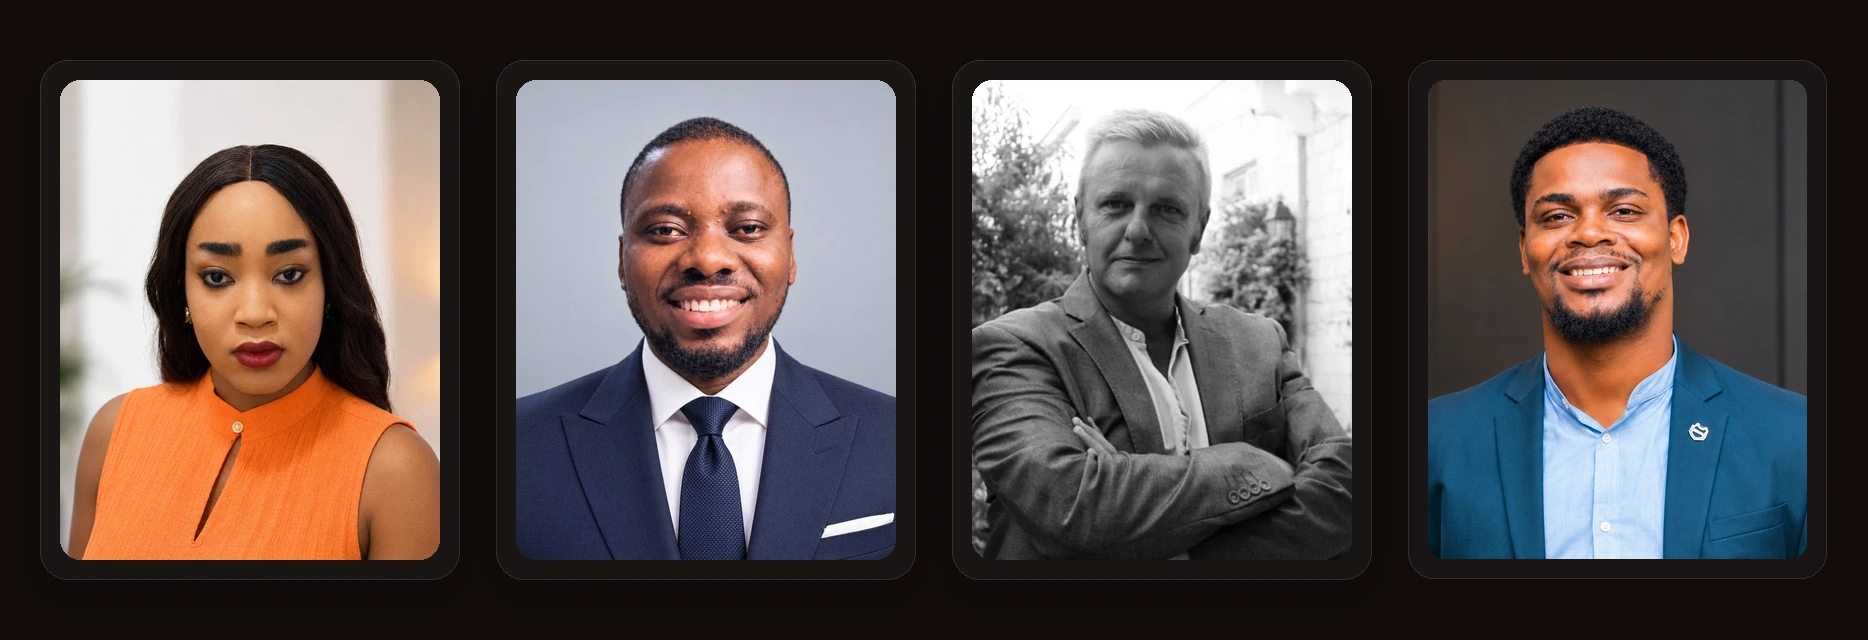
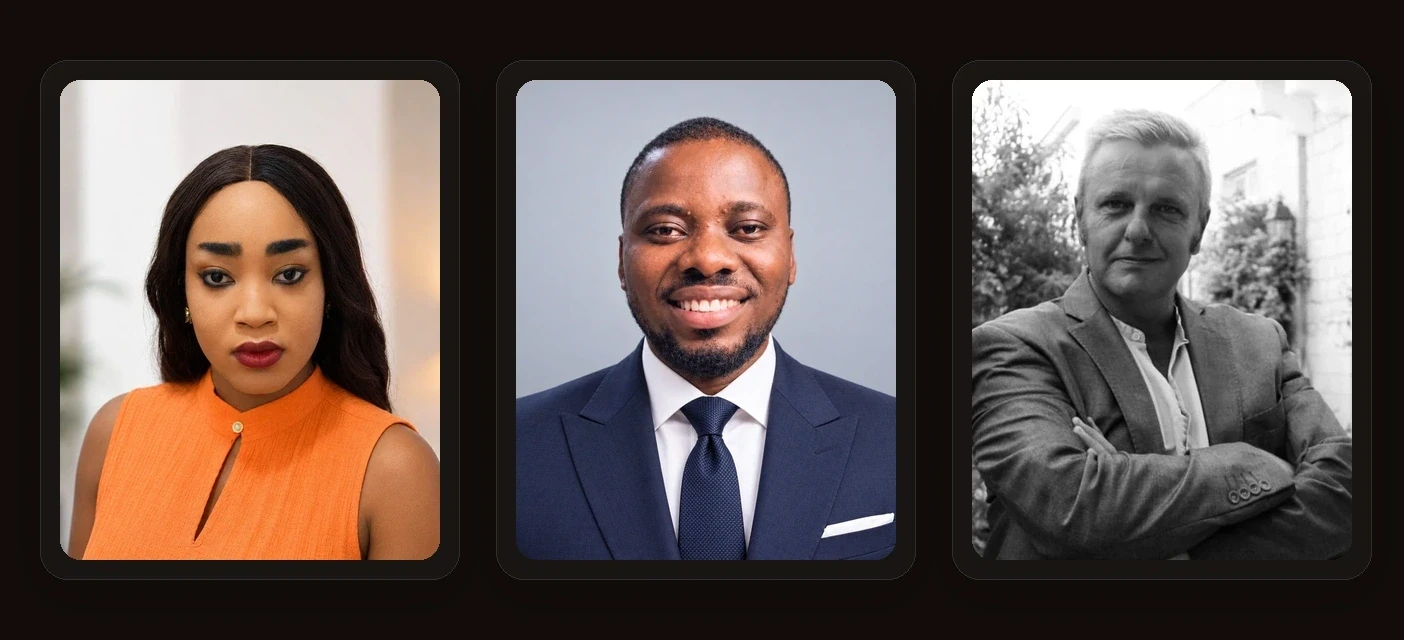
docs: remove Oluwadare Juwon from the team photo and names

diff --git a/README.md b/README.md
@@ -378,14 +378,13 @@ Found a security issue? Please read [SECURITY.md](SECURITY.md) and report it pri
 Magic Cloud and Hyperlambda are developed and professionally maintained by [AINIRO.IO](https://ainiro.io), copyright AINIRO.IO, Ltd 2019 – 2026. We offer hosting, support, and software development services on top of Magic Cloud, in addition to delivering AI agents, chatbots, and AI solutions.
 
 <p align="center">
-  <img src="images/hyperlambda-team.webp" alt="Evangeline Mmayie, Barnabas Olugbogi, Thomas Hansen and Oluwadare Juwon, the people building Magic Cloud and Hyperlambda" width="640" />
+  <img src="images/hyperlambda-team.webp" alt="Evangeline Mmayie, Barnabas Olugbogi and Thomas Hansen, the people building Magic Cloud and Hyperlambda" width="640" />
 </p>
 
 <p align="center">
   <a href="https://github.com/EbubeEvan">Evangeline Mmayie</a> &middot;
   <a href="https://github.com/barnascript">Barnabas Olugbogi</a> &middot;
-  <a href="https://github.com/polterguy">Thomas Hansen</a> &middot;
-  <a href="https://github.com/wintan1418">Oluwadare Juwon</a>
+  <a href="https://github.com/polterguy">Thomas Hansen</a>
 </p>
 
 ## License
